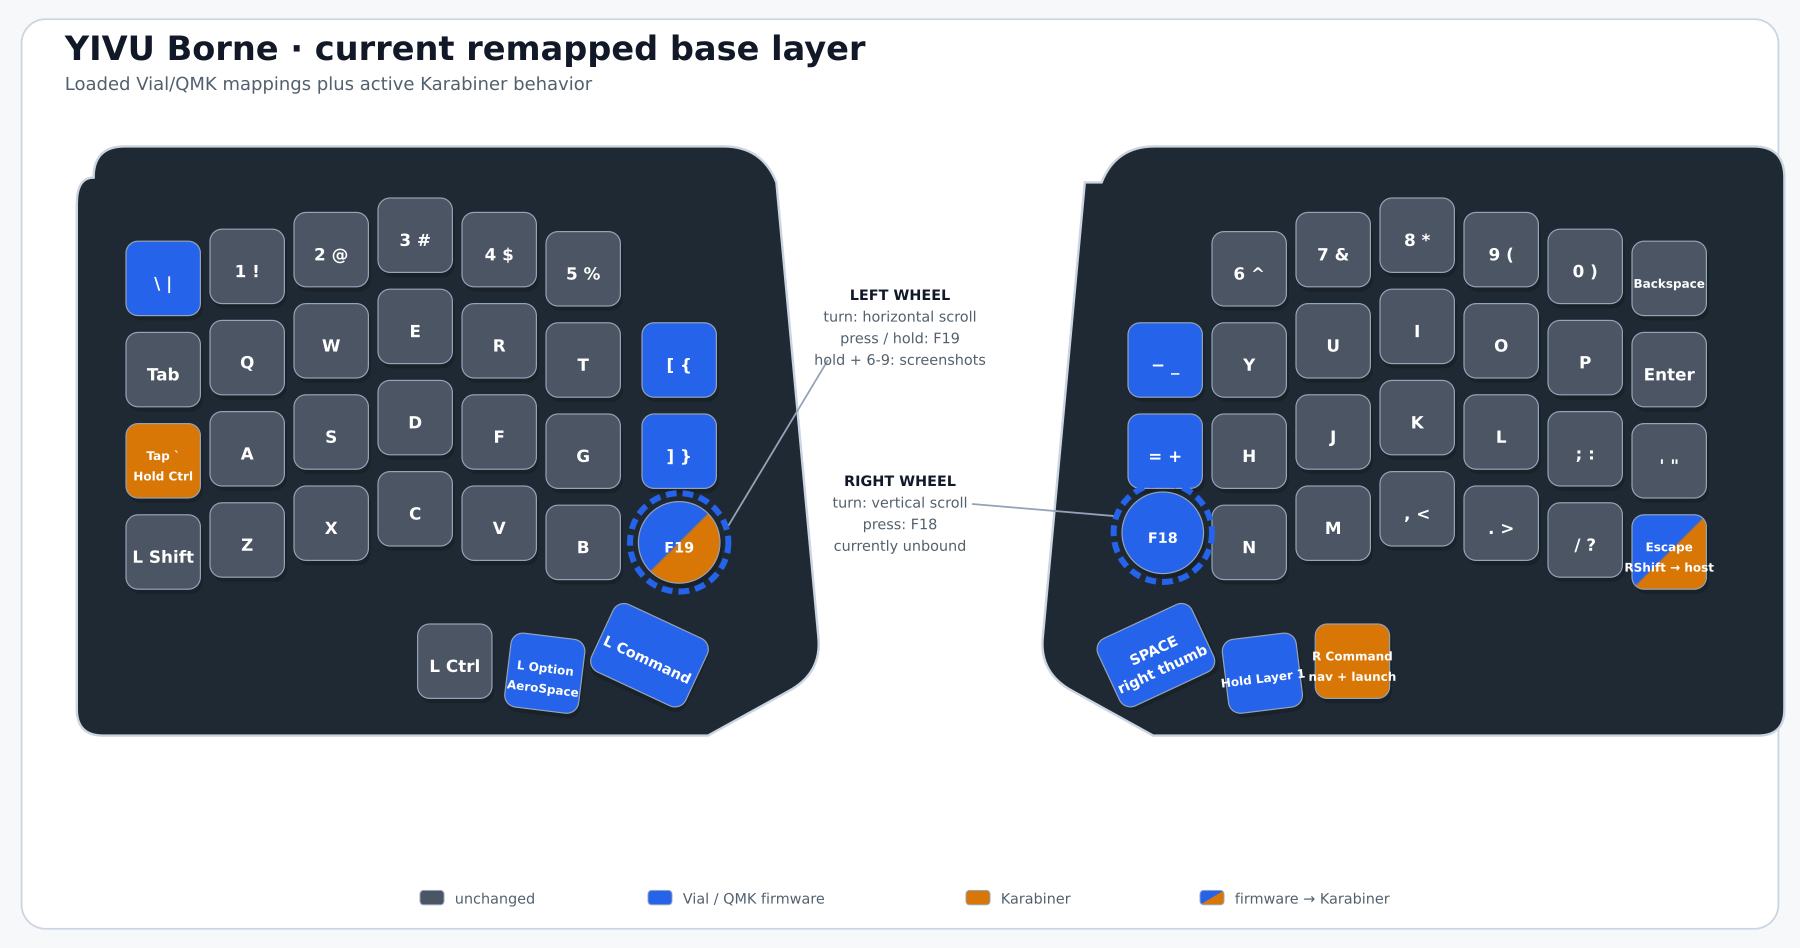
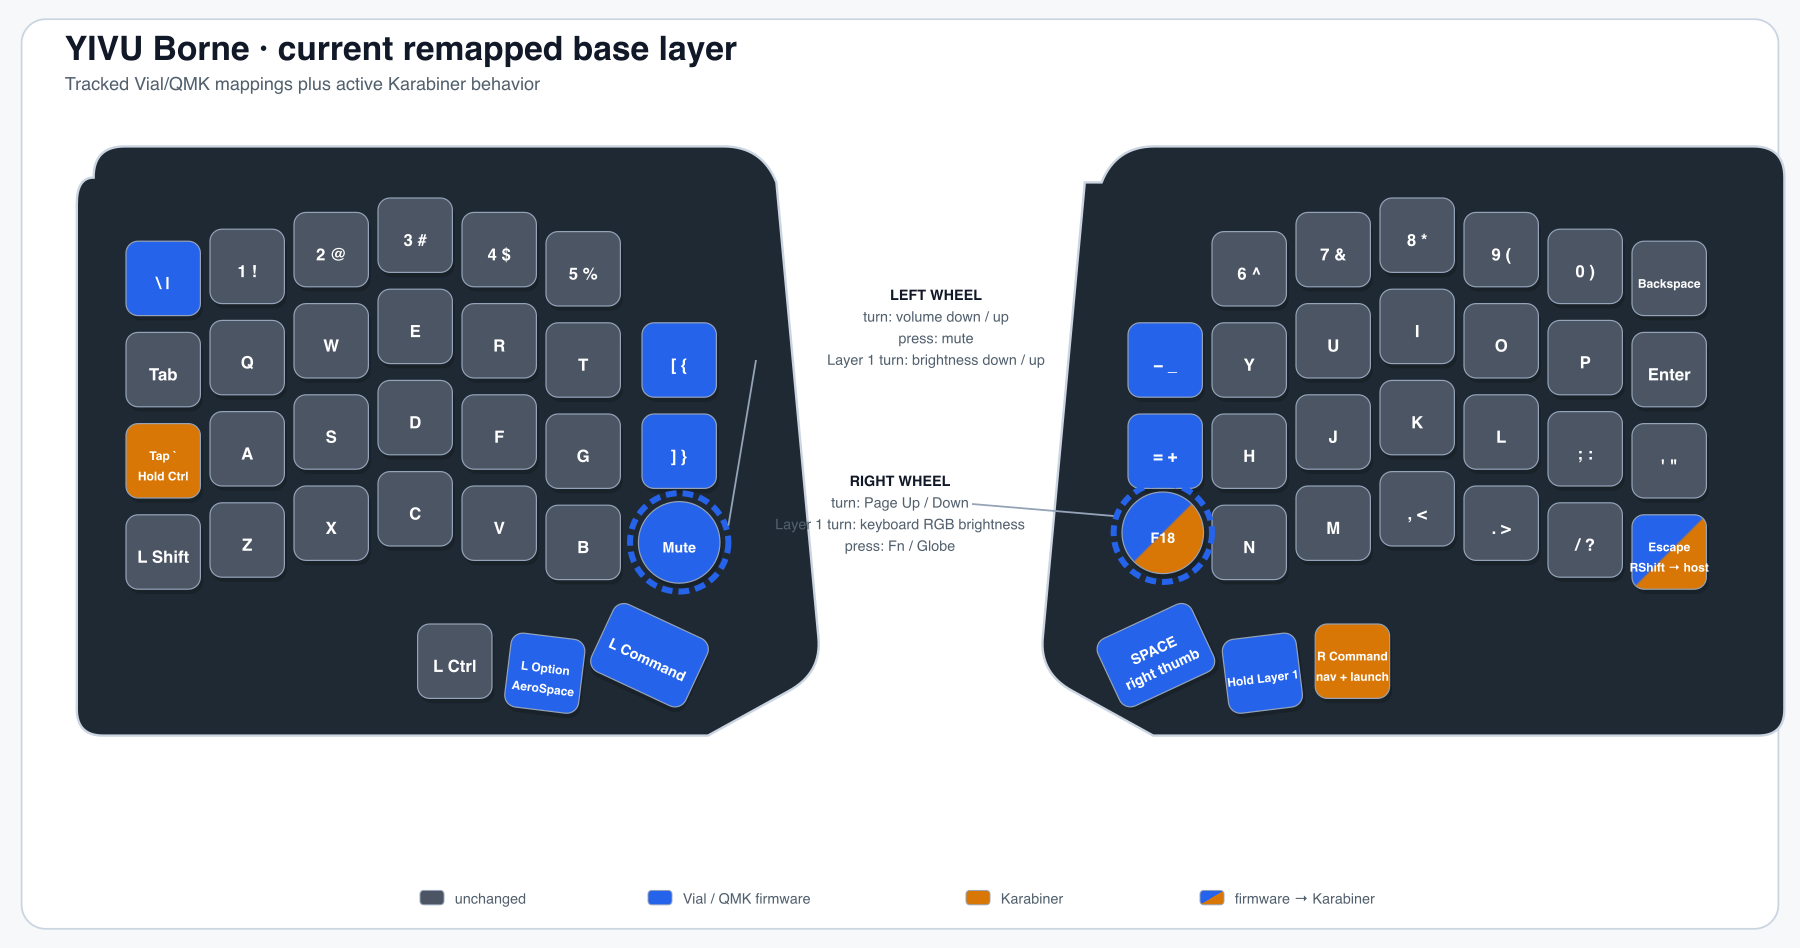
Vial: Borne wheels enhanced

diff --git a/README.md b/README.md
@@ -220,7 +220,7 @@ Current remapped base layer:
 
 These diagrams are references only. The Borne Vial layout is tracked in Git; commit history records its revisions.
 
-The base layer uses the left encoder for volume and mute, and the right encoder for Page Up/Down. On Layer 1, the left encoder controls display brightness; both encoder presses retain their RGB controls.
+The base layer uses the left encoder for volume and mute, and the right encoder for Page Up/Down. On Layer 1, the left encoder controls display brightness and the right encoder controls keyboard RGB brightness; both encoder presses retain their RGB controls.
 
 ### Structure
 

diff --git a/docs/keyboard/keyboard-remapping-requirements-spec.md b/docs/keyboard/keyboard-remapping-requirements-spec.md
@@ -152,7 +152,7 @@ The tracked Vial layout is `.config/vial/layouts/borne/base.vil`. Its encoder be
 | Context | Left encoder | Right encoder |
 | ------- | ------------ | ------------- |
 | Base layer | Turn: volume down/up. Press: mute. | Turn: Page Up/Down. Press: F18. |
-| Layer 1 | Turn: display brightness down/up. Press: RGB mode. | Turn: Page Up/Down. Press: RGB toggle. |
+| Layer 1 | Turn: display brightness down/up. Press: RGB mode. | Turn: keyboard RGB brightness down/up. Press: RGB toggle. |
 
 The F18 press becomes Apple Fn/Globe for GhostPepper.
 
